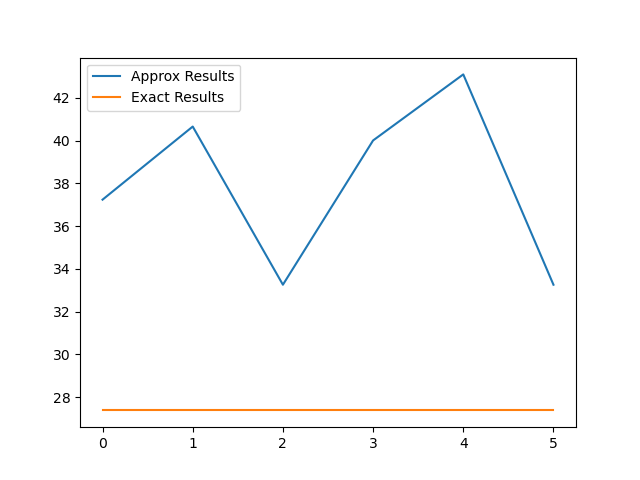
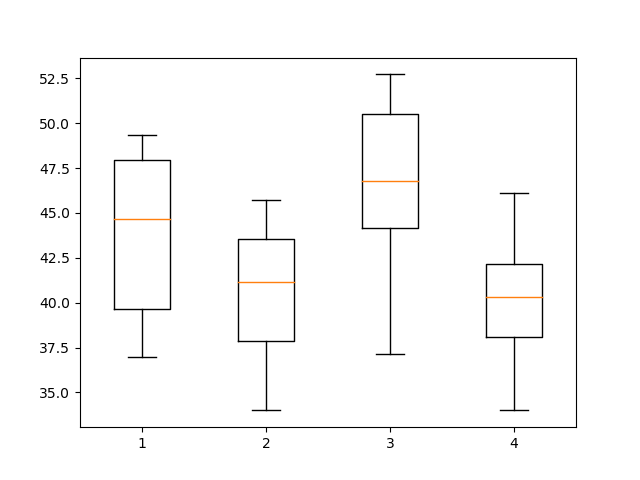
added fixes to augmented study

diff --git a/augmented_study/plotResults.py b/augmented_study/plotResults.py
@@ -2,24 +2,34 @@ import matplotlib.pyplot as plt
 
 
 def main():
-    abbyRuns = 6
+    numGraphs = 4
+    abbyRuns = 6 # how many times we run over a data set for each graph
     abbyNums = []
     xAxis = [i for i in range(abbyRuns)]
-    for _ in range(abbyRuns):
-        num = float(input())
-        abbyNums.append(num)
-        # flush input
-        input()
-        input()
+
+    for i in range(numGraphs):
+        graphNumsA = []
+        for _ in range(abbyRuns):
+            num = float(input())
+            graphNumsA.append(num)
+            # flush input
+            input()
+            input()
+        abbyNums.append(graphNumsA)
     
     num = float(input()) # grab Mateo's number
-    mateoNums = [num for _ in range(abbyRuns)]
+    # mateoNums = [num for _ in range(abbyRuns)]
     
-
-    plt.plot(xAxis, abbyNums, label="Approx Results")
-    plt.plot(xAxis, mateoNums, label="Exact Results")
-    plt.legend()
+    fig = plt.figure()
+    # ax = fig.add_axes(xAxis)
+    bp =  plt.boxplot(abbyNums)
+    print(abbyNums)
     plt.show()
+
+    # plt.plot(xAxis, abbyNums, label="Approx Results")
+    # plt.plot(xAxis, mateoNums, label="Exact Results")
+    # plt.legend()
+    # plt.show()
     plt.savefig("comparisonPlot")
 
 

diff --git a/augmented_study/genGraph.py b/augmented_study/genGraph.py
@@ -6,7 +6,8 @@ edges do not repeat
 """
 def generateRandomGraph():
     f = open("graph", 'w')
-    n = random.randint(4, 12) # random up to 12 vertices
+    # n = random.randint(4, 12) # random up to 12 vertices
+    n = int(input())
     verts = [chr(i) for i in range(65, 65 + n)]
     edges = set()
     graph = []
